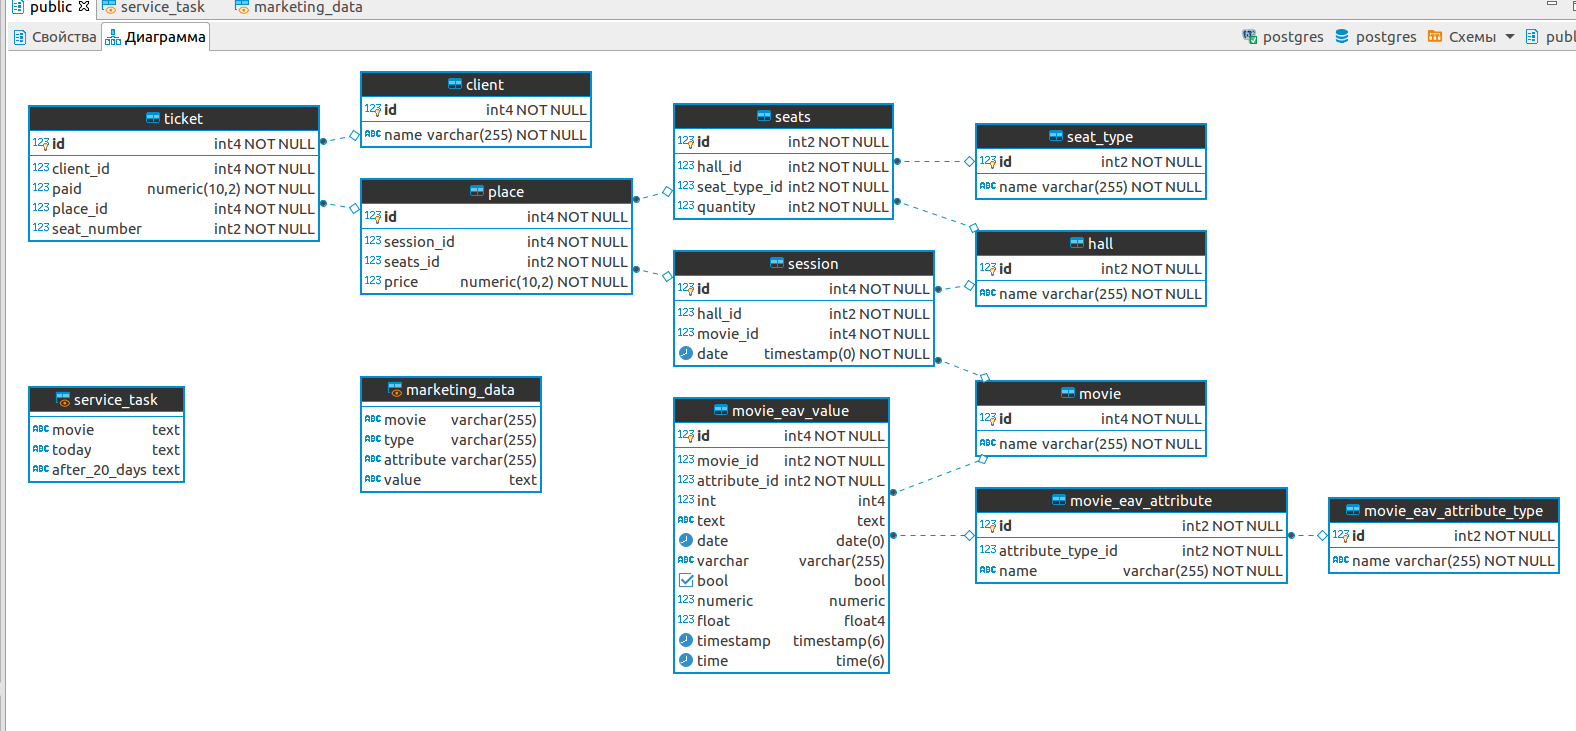
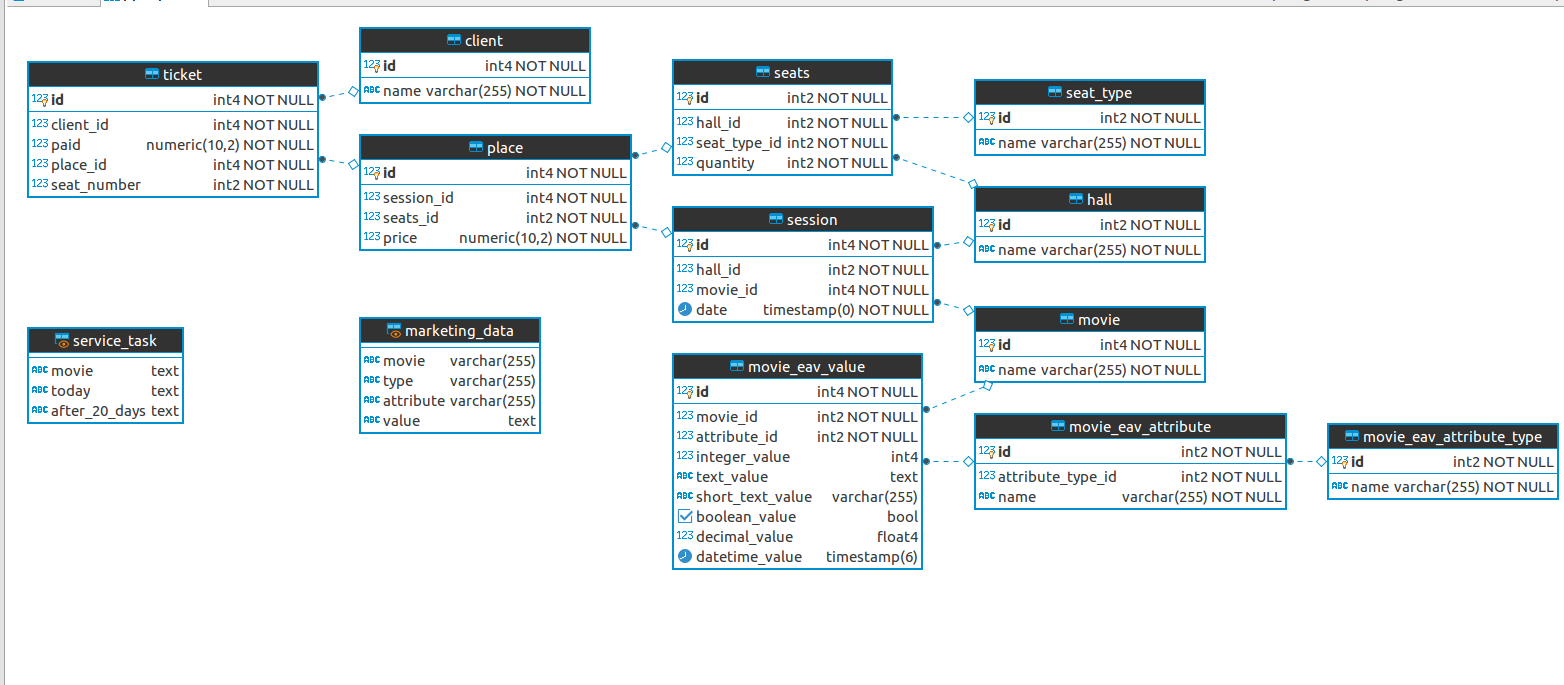
EAV value types update

Changed region(s): [[0.0, 0.0, 1.0, 0.9197], [0.2148, 0.4599, 0.3683, 0.6745], [0.0, 0.4599, 0.1228, 0.6745]]

diff --git a/README.md b/README.md
@@ -11,12 +11,12 @@ CREATE OR REPLACE VIEW public.service_task
 AS SELECT max(m.name::text) AS movie,
     string_agg(
         CASE
-            WHEN mev.date = CURRENT_DATE THEN mea.name
+            WHEN mev.datetime_value = CURRENT_DATE THEN mea.name
             ELSE NULL::character varying
         END::text, ', '::text) AS today,
     string_agg(
         CASE
-            WHEN mev.date = (CURRENT_DATE + '20 days'::interval) THEN mea.name
+            WHEN mev.datetime_value = (CURRENT_DATE + '20 days'::interval) THEN mea.name
             ELSE NULL::character varying
         END::text, ', '::text) AS after_20_days
    FROM movie m
@@ -33,12 +33,12 @@ AS SELECT m.name AS movie,
     meat.name AS type,
     mea.name AS attribute,
         CASE
-            WHEN mea.attribute_type_id = 1 THEN mev."int"::text
-            WHEN mea.attribute_type_id = 2 THEN mev.text
-            WHEN mea.attribute_type_id = 3 THEN mev.date::text
-            WHEN mea.attribute_type_id = 4 THEN mev."varchar"::text
-            WHEN mea.attribute_type_id = 5 THEN mev.bool::text
-            WHEN mea.attribute_type_id = 6 THEN mev."numeric"::text
+            WHEN mea.attribute_type_id = 1 THEN mev."integer_value"::text
+            WHEN mea.attribute_type_id = 2 THEN mev.text_value
+            WHEN mea.attribute_type_id = 3 THEN mev.datetime_value::text
+            WHEN mea.attribute_type_id = 4 THEN mev."short_text_value"::text
+            WHEN mea.attribute_type_id = 5 THEN mev.boolean_value::text
+            WHEN mea.attribute_type_id = 6 THEN mev."decimal_value"::text
             ELSE NULL::text
         END AS value
    FROM movie m
